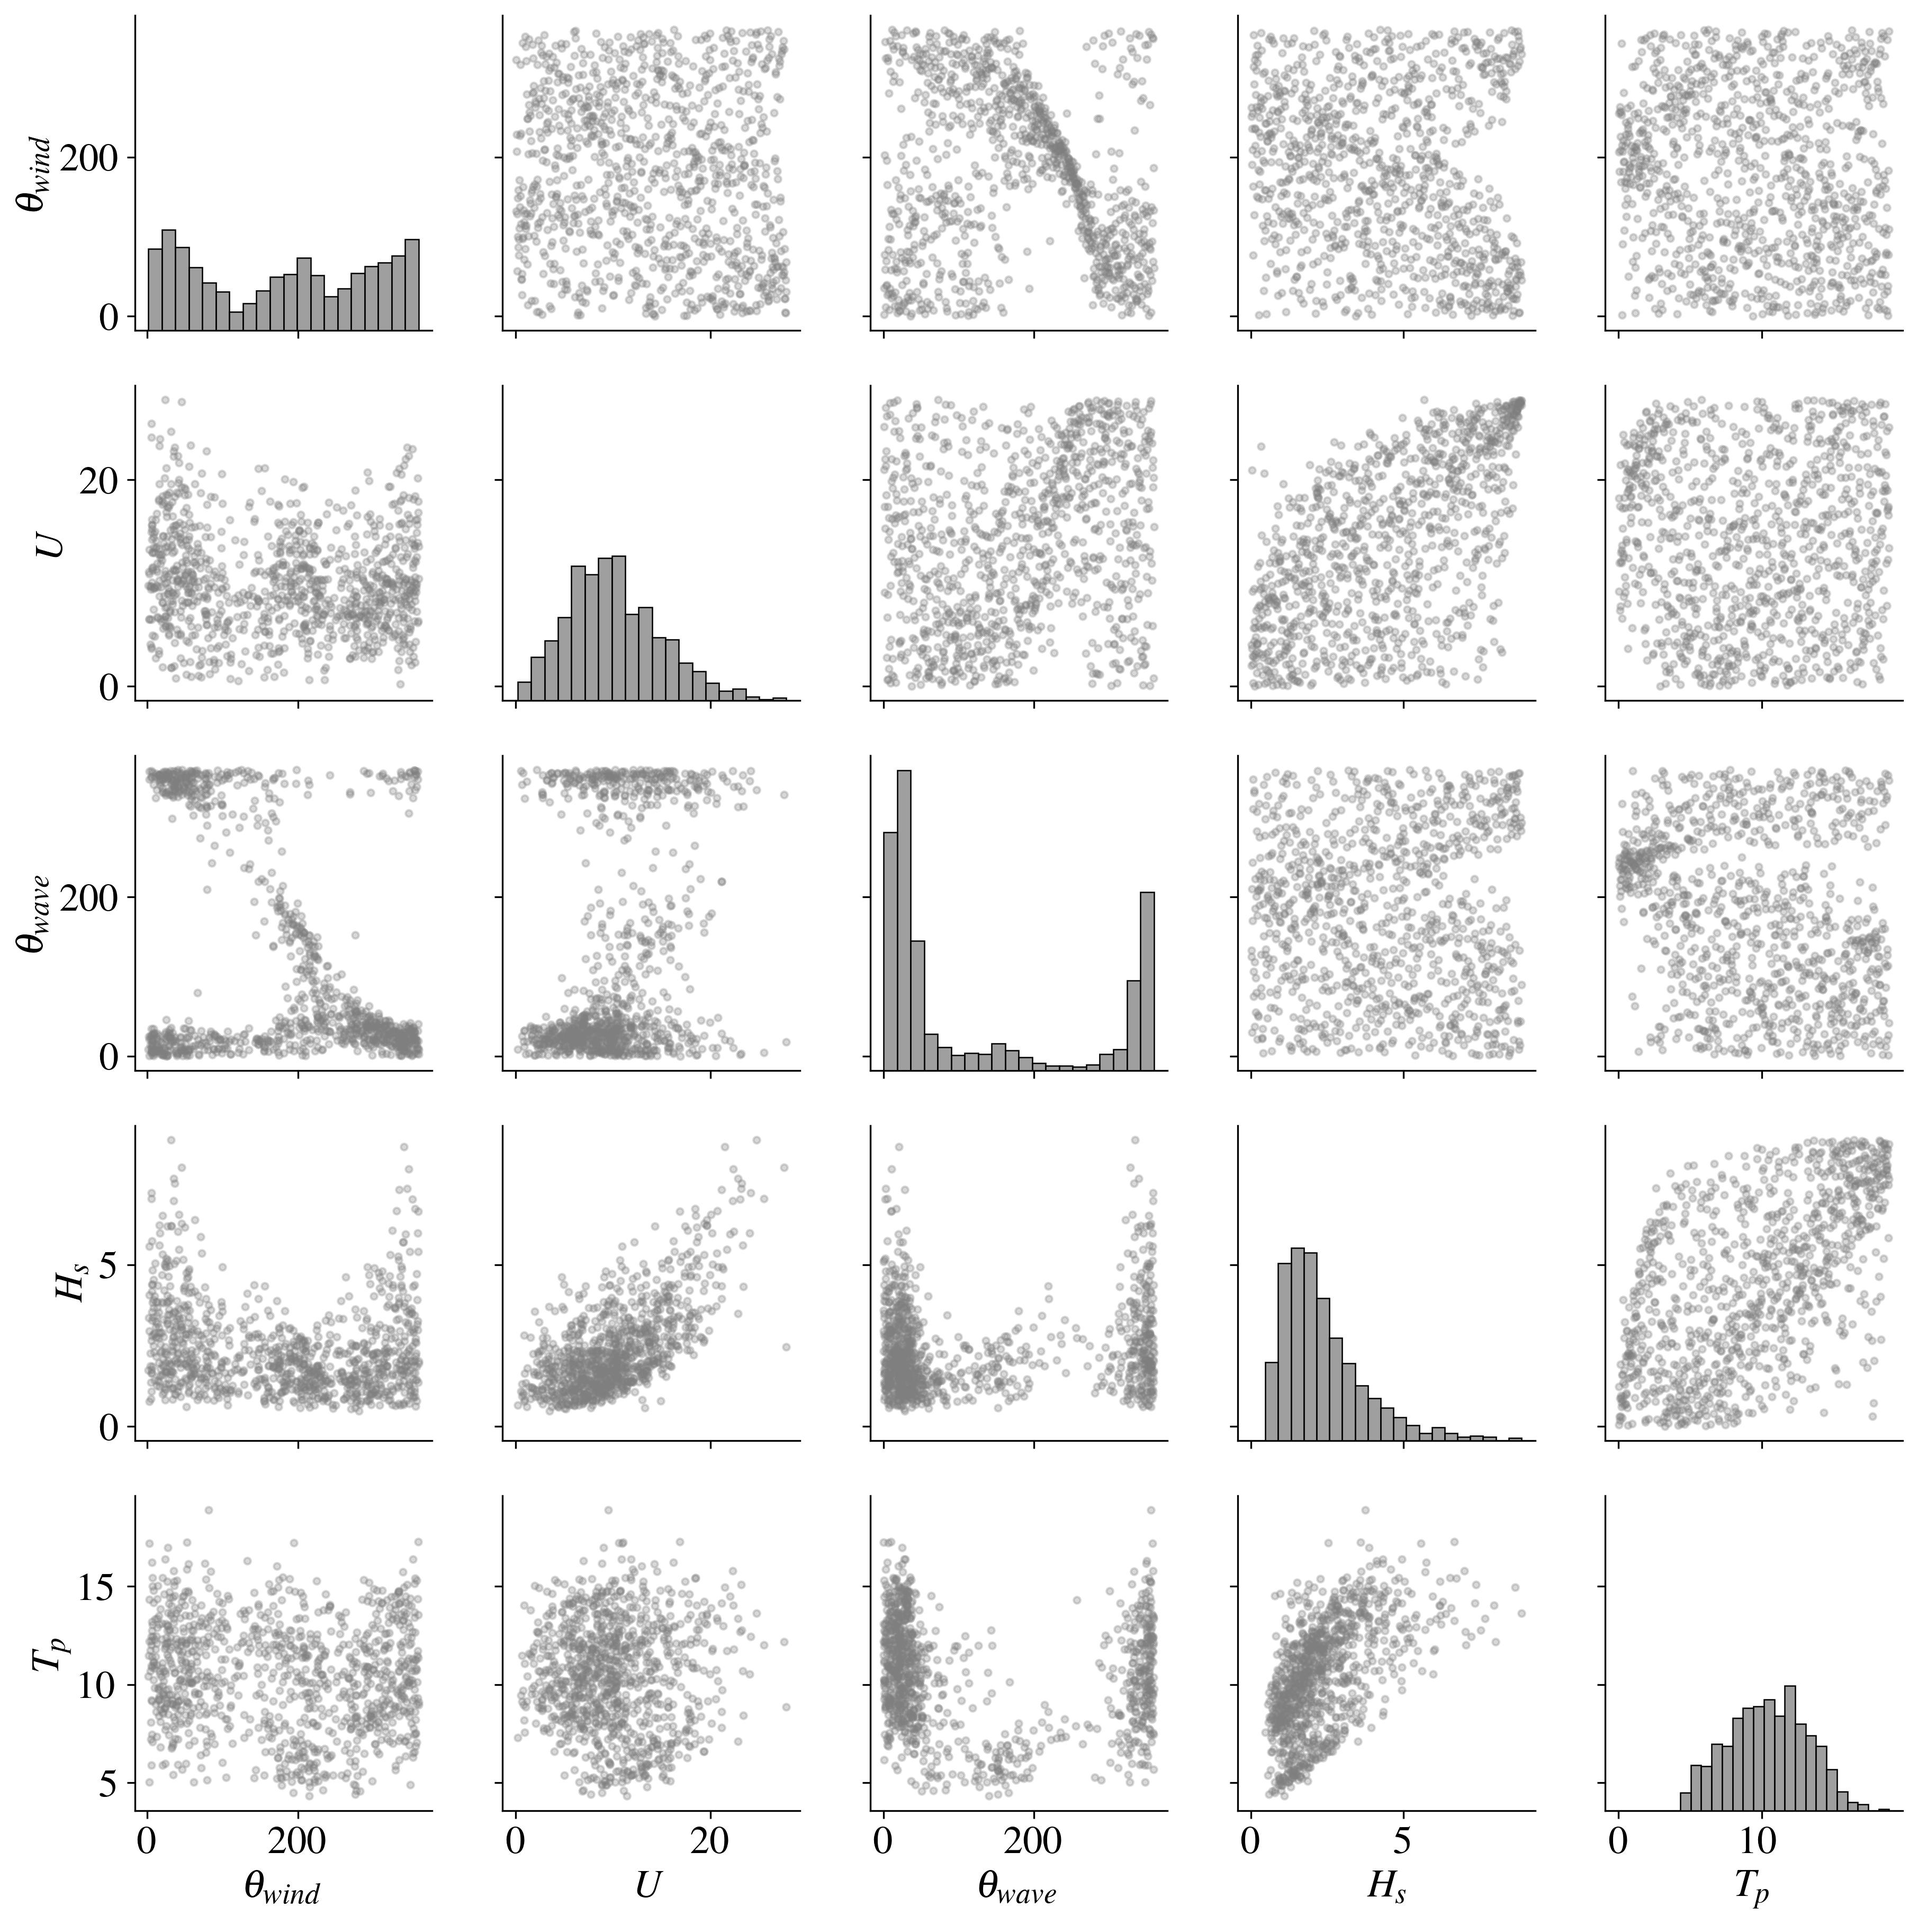
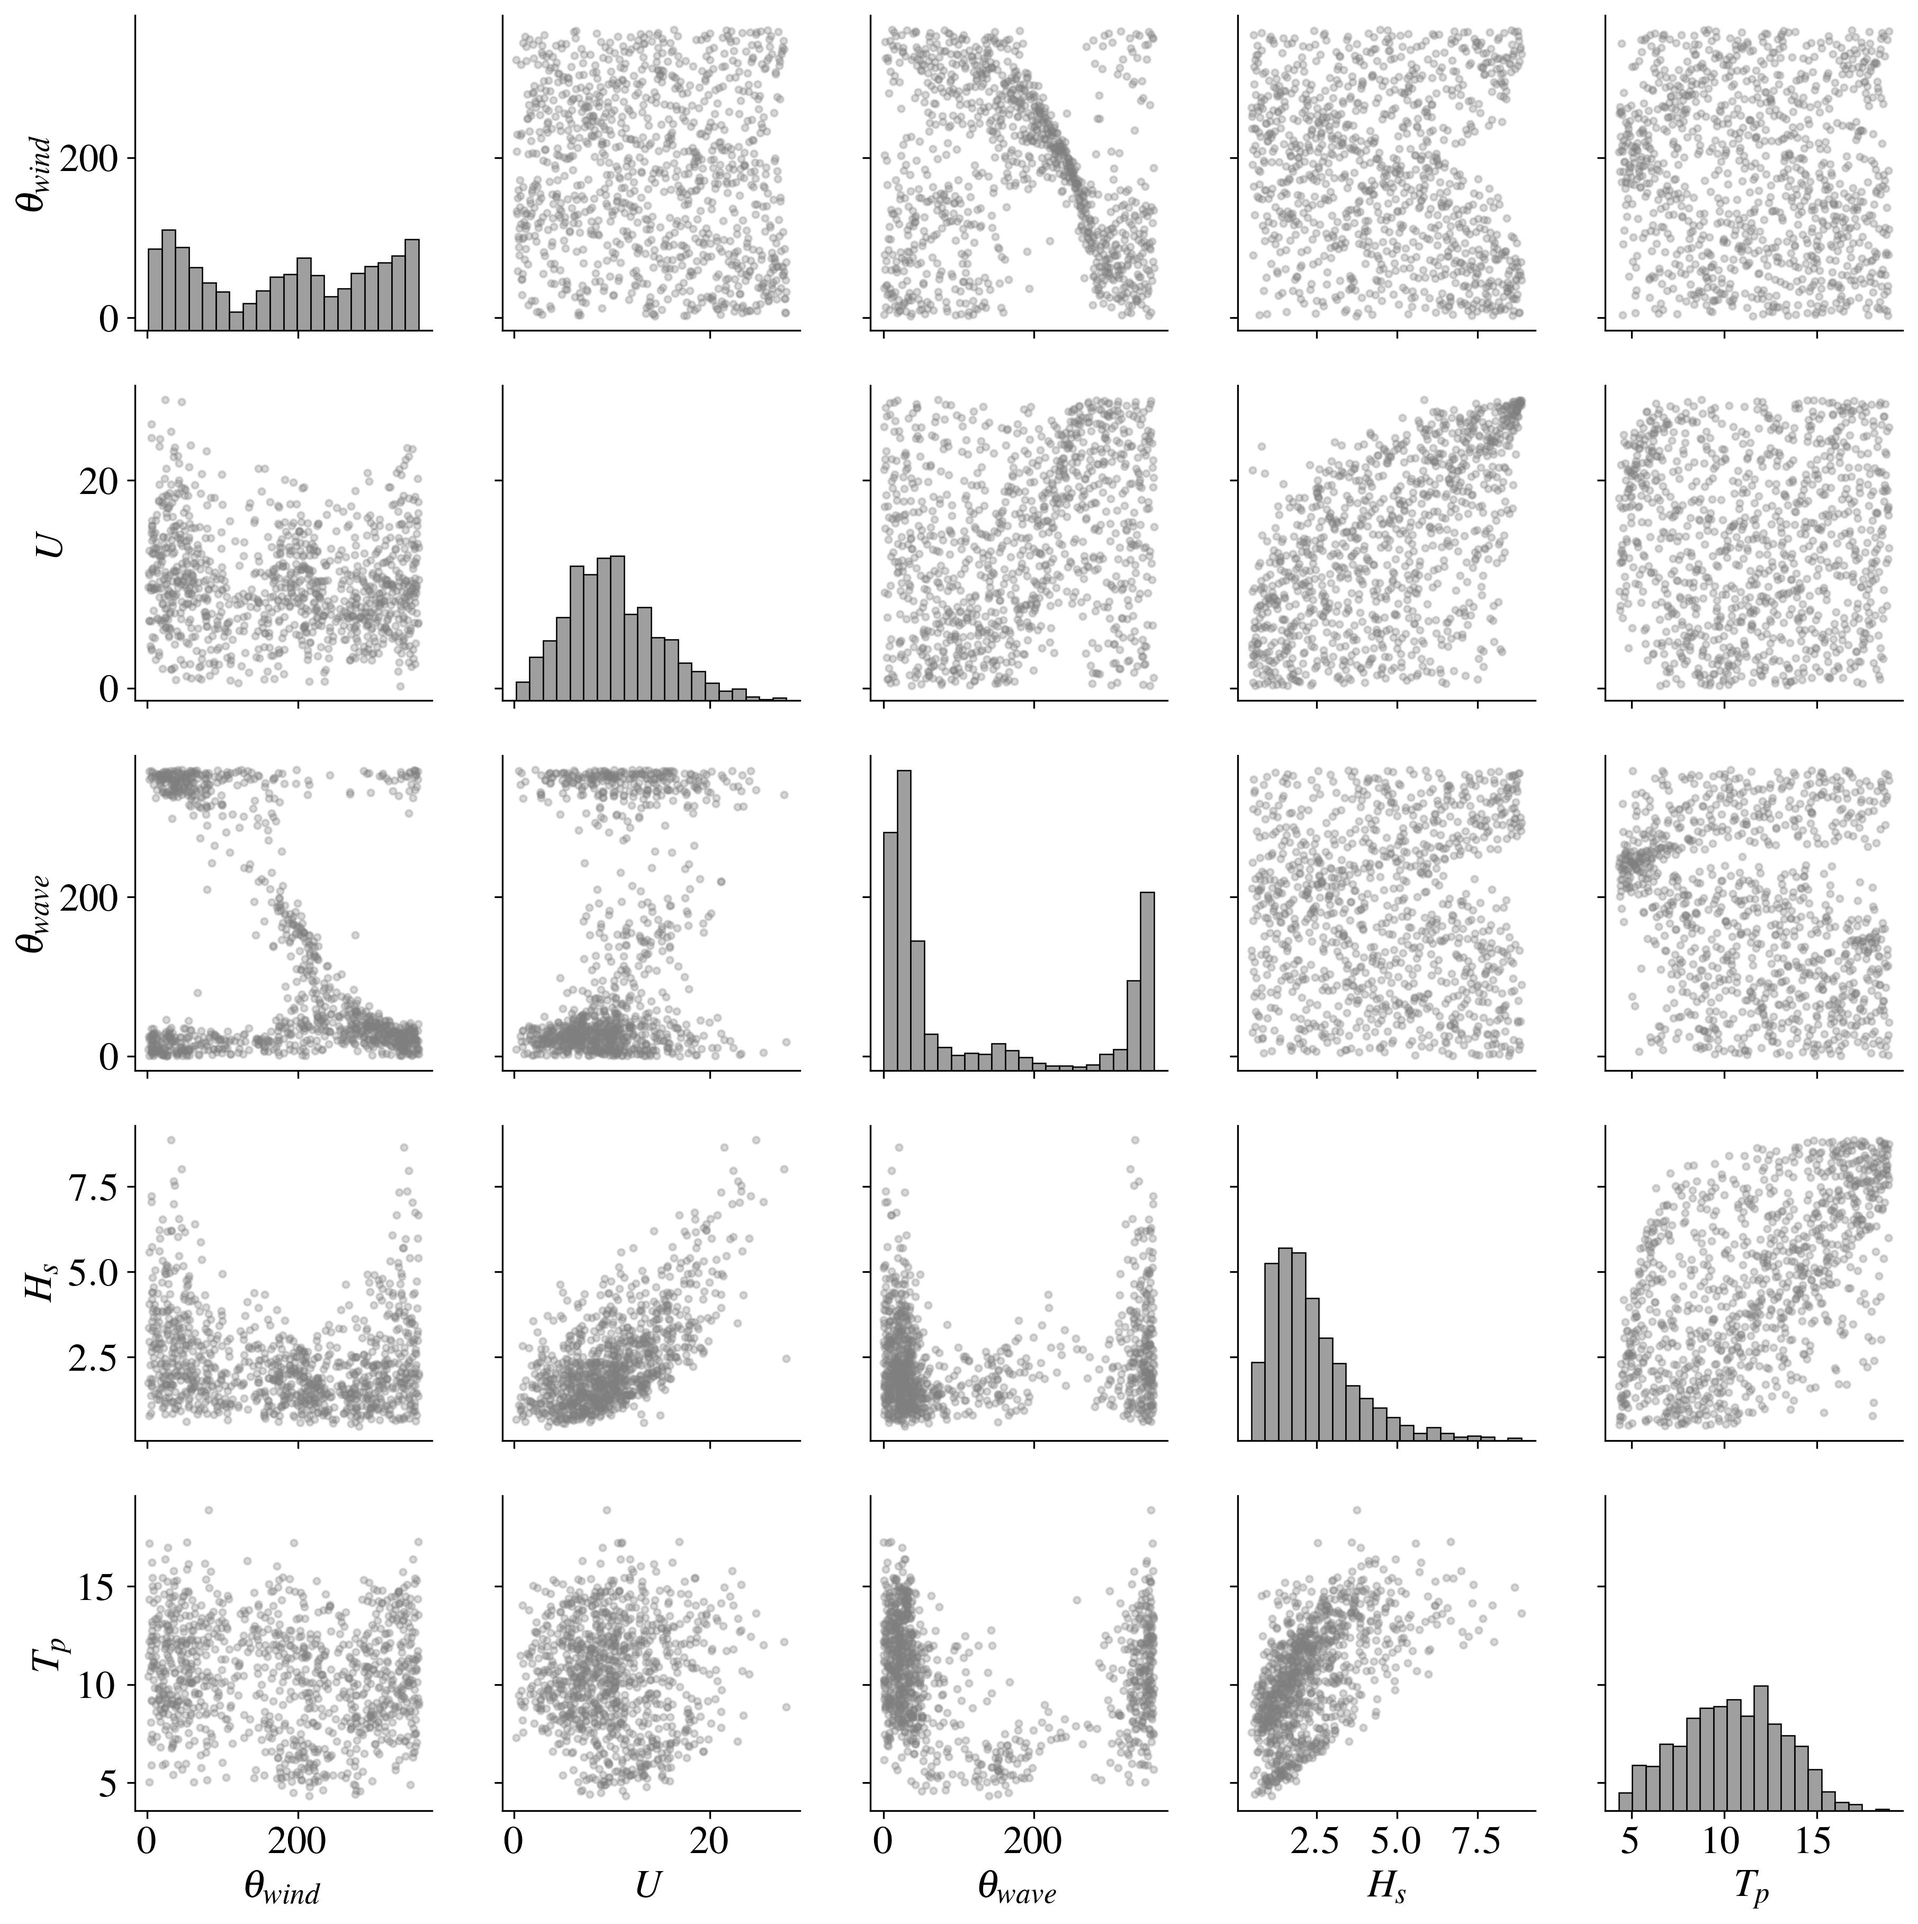
Fixes scaling ranks scaling for negative data, adds the example of the Ishigami function

diff --git a/copulogram/Copulogram.py b/copulogram/Copulogram.py
@@ -112,7 +112,10 @@ class Copulogram:
 
             if quantile_contour_levels is None:
                 copulogram.map_lower(plt.scatter, color=color, alpha=alpha, marker=marker)
-                temp = df_numeric.rank() / self.N * df_numeric.max().values
+                temp = (df_numeric.rank() / self.N)
+                xmaxs = df_numeric.max().values
+                xmins = df_numeric.min().values
+                temp = temp * (xmaxs - xmins) + xmins
                 copulogram.data = temp
                 copulogram = copulogram.map_upper(plt.scatter, color=color, alpha=alpha, marker=marker)
             else:
@@ -140,7 +143,11 @@ class Copulogram:
             
             if quantile_contour_levels is None:
                 copulogram.map_lower(sns.scatterplot, alpha=alpha, marker=marker)
-                temp = df_numeric[plotted_cols].rank() / self.N * df_numeric[plotted_cols].max().values
+                #temp = df_numeric[plotted_cols].rank() / self.N * df_numeric[plotted_cols].max().values
+                temp = (df_numeric[plotted_cols].rank() / self.N)
+                xmaxs = df_numeric[plotted_cols].max().values
+                xmins = df_numeric[plotted_cols].min().values
+                temp = temp * (xmaxs - xmins) + xmins
                 temp[hue] = df[hue]
                 copulogram.data = temp
                 copulogram = copulogram.map_upper(sns.scatterplot, alpha=alpha, marker=marker)

diff --git a/examples/ishigami.py b/examples/ishigami.py
@@ -1,0 +1,23 @@
+#!/usr/bin/env python3
+# -*- coding: utf-8 -*-
+"""
+Copyright (C) EDF 2023
+
+@author: Elias Fekhari
+"""
+import numpy as np
+import pandas as pd
+import openturns as ot 
+import copulogram as cp
+from openturns.usecases import ishigami_function
+
+im = ishigami_function.IshigamiModel()
+size = 5000
+X = im.distributionX.getSample(size)
+Y = im.model(X)
+
+plotting_size = 1000
+data = pd.DataFrame(np.array(X[:plotting_size]), columns=list(X.getDescription()))
+data['Y'] = np.array(Y[:plotting_size])
+copulogram = cp.Copulogram(data)
+copulogram.draw(color='C7', marker='.', alpha=0.5, save_file="figures/ishigami.jpg")
